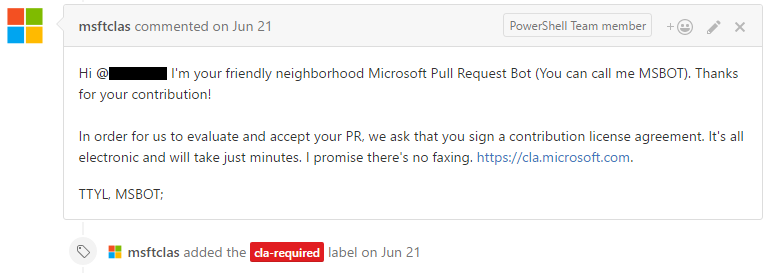
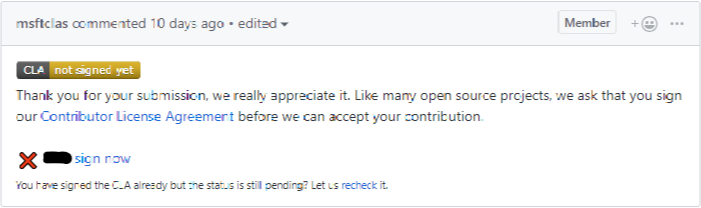
Update documentation around the new CLA status check

diff --git a/Maintainers.md b/Maintainers.md
@@ -121,10 +121,10 @@ If you are maintainer, please follow these rules:
 1. **DO** verify that all contributors are following the [style guidelines](https://github.com/PowerShell/DscResources/blob/master/StyleGuidelines.md).
 1. **DO** verify compliance with any third party code license terms (e.g., requiring attribution, etc.) if the contribution contains third party code.
 
-1. **DON'T** merge pull requests without the label `cla-signed` or `cla-not-required` from the Microsoft CLA bot.
+1. **DON'T** merge pull requests where the CLA status check is pending or the CLA status check is missing (updated by Microsoft CLA bot).
 1. **DON'T** merge pull requests to **master** branch.
 1. **DON'T** merge pull requests with a failed CI build.
-1. **DON'T** merge pull requests that do not [include all meaningful changes](CONTRIBUTING.md#lifecycle-of-a-pull-request) under the **Unreleased** section in the repository's `README.md`.
+1. **DON'T** merge pull requests that do not [include all meaningful changes](CONTRIBUTING.md#lifecycle-of-a-pull-request) under the **Unreleased** section in the repository's `README.md` or `CHANGELOG.md`.
 1. **DON'T** merge your own pull requests before they are reviewed by someone else.
   - If there is **no one** else to review your pull request, please wait **24** hours to merge it in case anyone comes along and has a comment.
 

diff --git a/CONTRIBUTING.md b/CONTRIBUTING.md
@@ -259,12 +259,16 @@ Once you are satisfied with the title, description and file changes included, su
 If this is your first contribution to the DSC Resource Kit, you may be asked to sign a [Contribution Licensing Agreement](https://cla.microsoft.com/) (CLA) before your changes can be reviewed:
 ![GitHubCLARequired.png](Images/GitHubCLARequired.png)
 
-Once you sign the CLA, the Microsoft CLA bot will automatically update your PR:
+Once you sign the CLA, the Microsoft CLA bot will automatically update the comment in your PR:
 ![GitHubCLASigned.png](Images/GitHubCLASigned.png)
 
+The CLA status check should also pass in your PR.
+![GitHubCLASigned.png](Images/GitHubCLAStatusCheck.png)
+
 Once you have signed our CLA, you shouldn't have to do it again.
-If you believe you have signed our CLA before, but the Microsoft CLA bot still marks your PR as cla-required, please sign the CLA again.
-Sometimes the little bot makes mistakes.
+If you believe you have signed our CLA before, but the Microsoft CLA bot still
+marks your PR as "CLA not signed yet", or the CLA status check does not pass,
+please sign the CLA again. Sometimes the little bot makes mistakes.
 
 ### Tests in AppVeyor
 The DSC Resource Kit uses [AppVeyor](http://www.appveyor.com/) as a continuous integration (CI) system.
